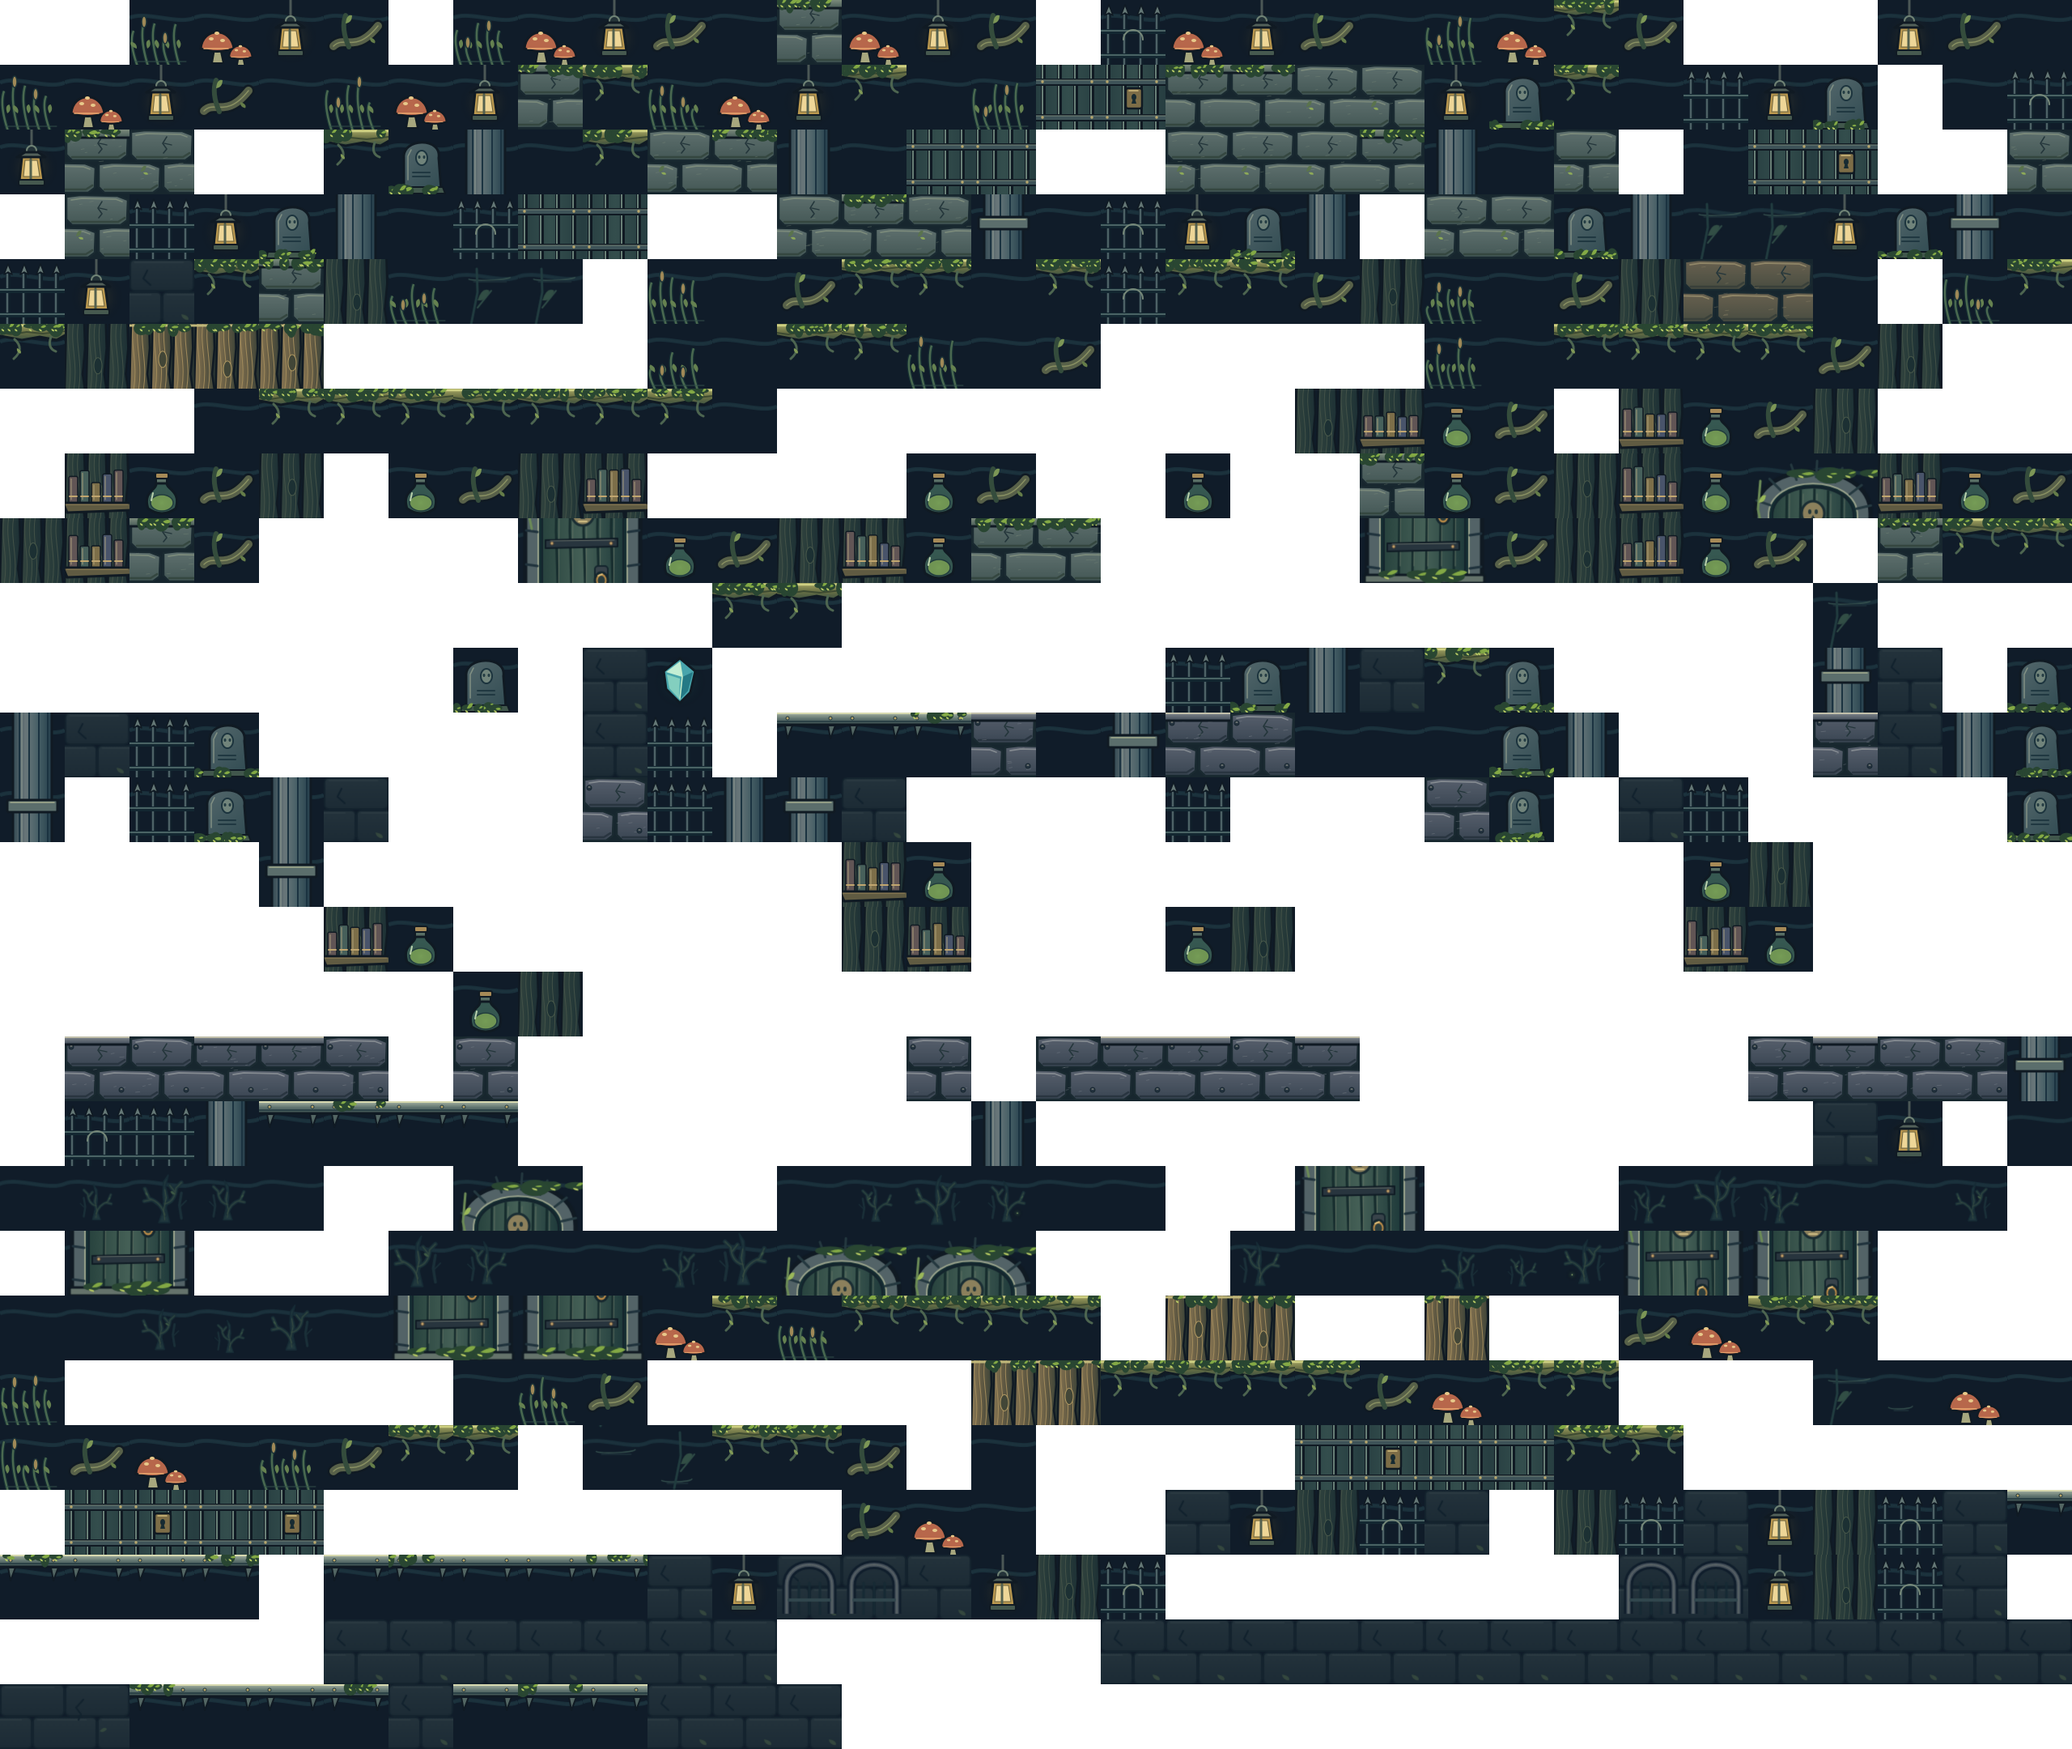
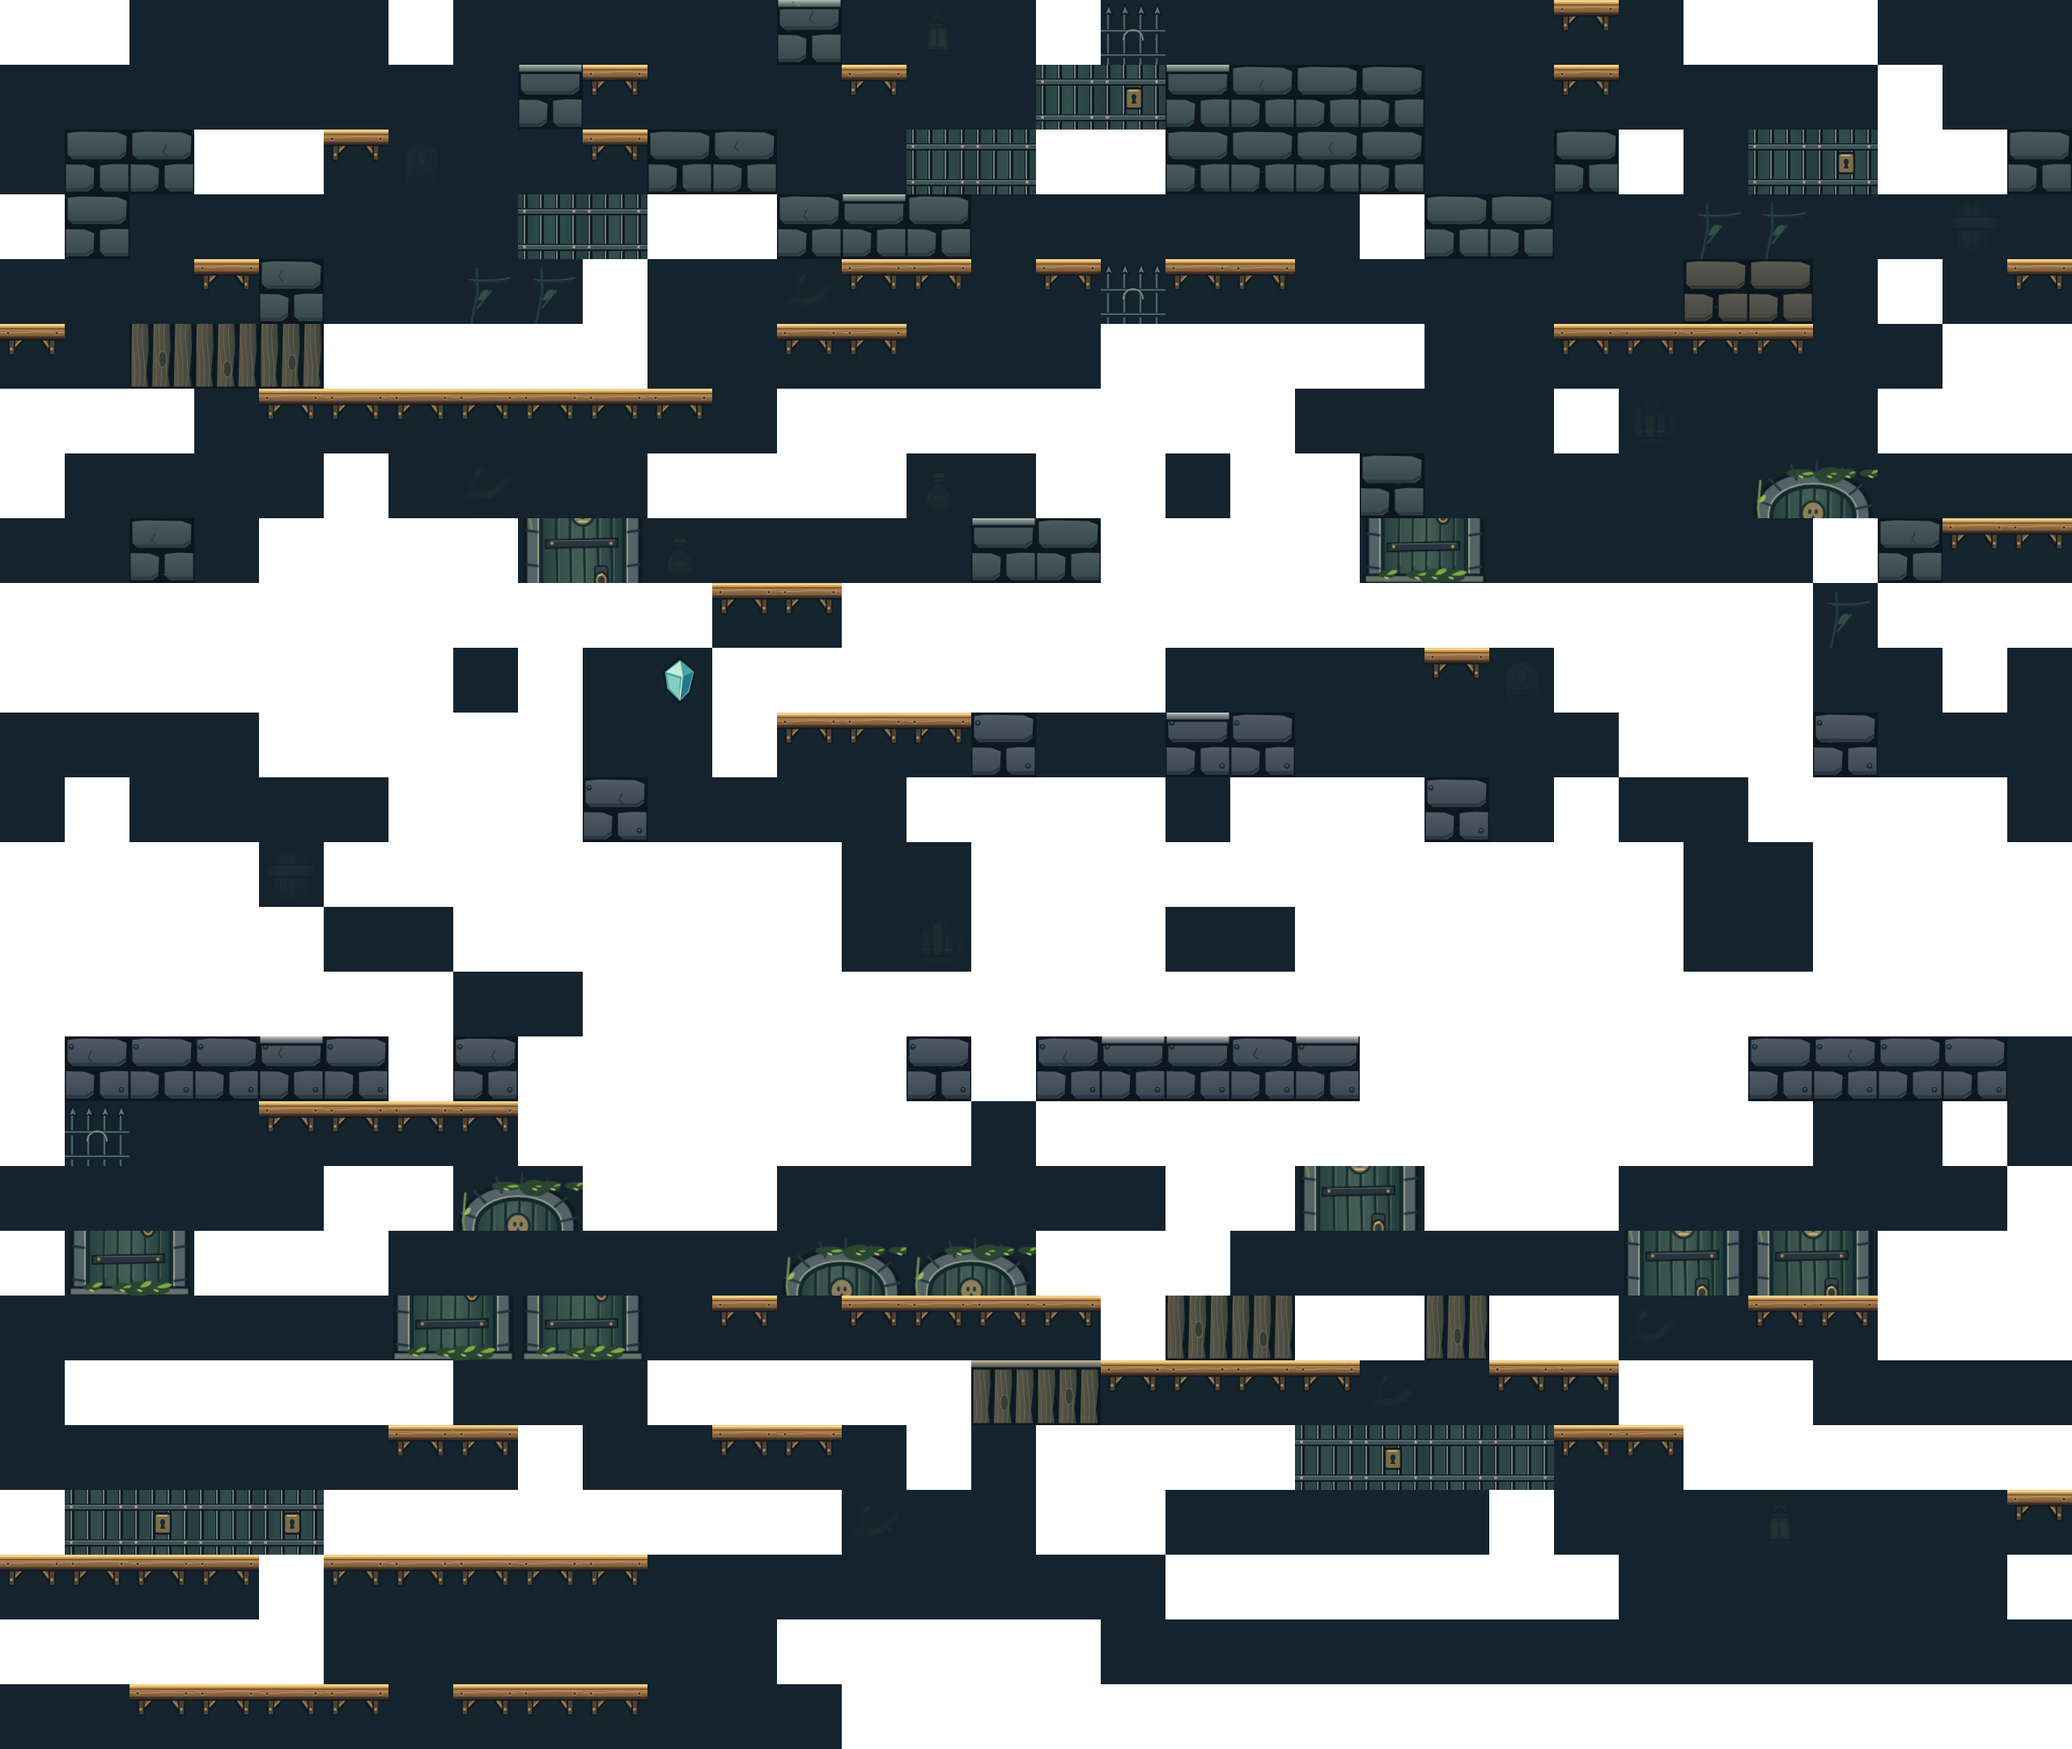
S21: readable tileset and door-up bot route
- Calm, low-contrast background families keep the fog backdrop seamless at index 11.
- One-way platforms are amber shelves with brackets, visually separate from solid walls.
- The bot opens doors with the new up action; the physics e2e stays green.

diff --git a/e2e/bot-api.spec.ts b/e2e/bot-api.spec.ts
@@ -106,12 +106,13 @@ test("spawn-adjacent exits fail immediately; level 2 warns about the fallback", 
   expect(level2.status.verdict).toBe("IN_PROGRESS");
   expect(level2.target?.behavior).toBe(1);
 
-  // The level-6 exit is one tile from the spawn. Walking into it proves that the
-  // harness captures the door and the completion, while the verdict stays FAIL
-  // because of the data defect.
+  // The level-6 exit is one tile from the spawn. Walking into it and pressing
+  // up proves that the harness captures the door and the completion, while the
+  // verdict stays FAIL because of the data defect.
   const level6 = await reset(page, 5);
   expect(level6.status.exitNextToSpawn).toBe(true);
   await act(page, "left", 10);
+  await act(page, "up", 1);
   const finished = await act(page, "wait", 40);
   expect(finished.done?.kind).toBe("levelComplete");
   expect(finished.status.reachedDoor?.behavior).toBe(2);
